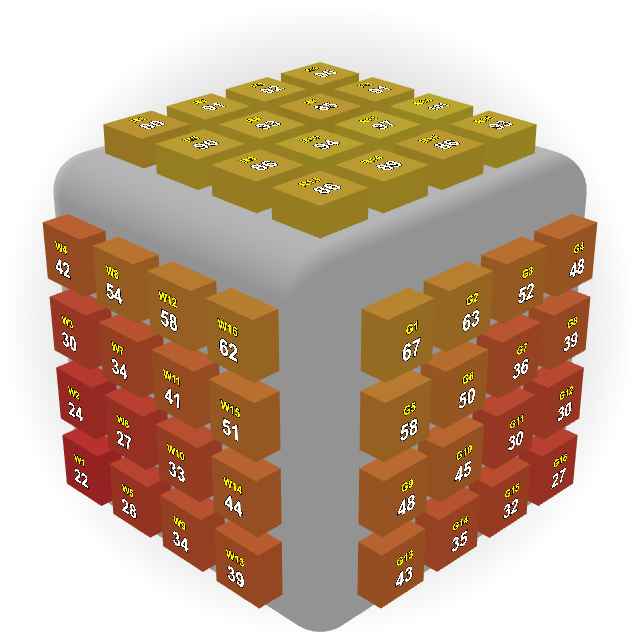
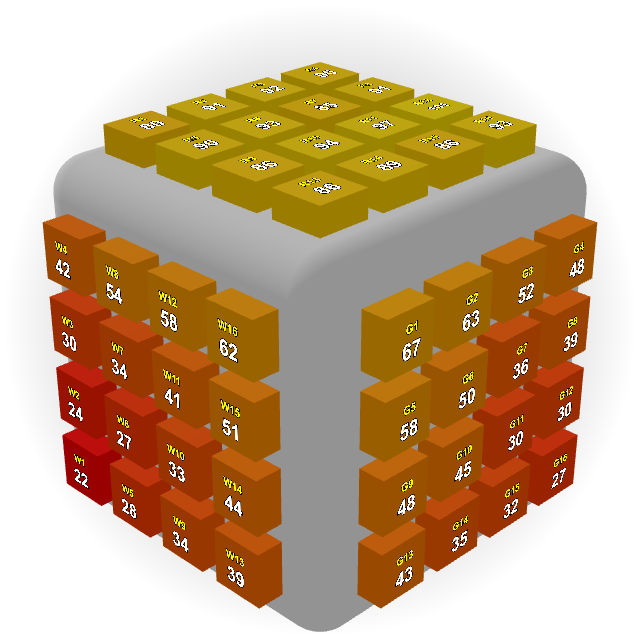
Refactor heatmap UI: integrate participants data from CSV and adjust layout for improved responsiveness

diff --git a/_includes/heatmap.html b/_includes/heatmap.html
@@ -19,39 +19,41 @@
 </style>
 
 <!-- the interface of the 3d render, with 2 home-made select -->
-<div id="interface">
-    <!-- the first select -->
-    <div class="select active" id="hand-select" role="select">
-        <input class="select-checkbox" id="hand-select-checkbox" type="checkbox">
-        <!-- the select content, the checkbox allow the switch for the display of the options -->
-        <label for="hand-select-checkbox" style="display: flex; justify-content:  space-between">
-            <span id="hand-selected">{{ e.total }}</span>
-            <img alt="arrow_down" src="/assets/img/arrow_down.png" style="aspect-ratio: 1 / 1; height: 1.6em;">
-        </label>
-        <!-- the select options -->
-        <div class="select-options" id="hand-select-options">
-            <span class="select-option choose">{{ e.total }}</span>
-            <span class="select-option">{{ e.preferred }}</span>
-            <span class="select-option">{{ e.hf_format | replace: '%h%', e.left | replace: '%f%', e.hand }}</span>
-            <span class="select-option">{{ e.hf_format | replace: '%h%', e.right | replace: '%f%', e.hand }}</span>
+<div class="buffer">
+    <div id="interface">
+        <!-- the first select -->
+        <div class="select active" id="hand-select" role="select">
+            <input class="select-checkbox" id="hand-select-checkbox" type="checkbox">
+            <!-- the select content, the checkbox allow the switch for the display of the options -->
+            <label for="hand-select-checkbox" style="display: flex; justify-content:  space-between">
+                <span id="hand-selected">{{ e.total }}</span>
+                <img alt="arrow_down" src="/assets/img/arrow_down.png" style="aspect-ratio: 1 / 1; height: 1.6em;">
+            </label>
+            <!-- the select options -->
+            <div class="select-options" id="hand-select-options">
+                <span class="select-option choose">{{ e.total }}</span>
+                <span class="select-option">{{ e.preferred }}</span>
+                <span class="select-option">{{ e.hf_format | replace: '%h%', e.left | replace: '%f%', e.hand }}</span>
+                <span class="select-option">{{ e.hf_format | replace: '%h%', e.right | replace: '%f%', e.hand }}</span>
+            </div>
         </div>
-    </div>
-    <!-- the second select -->
-    <div class="select" id="finger-select" role="select">
-        <input class="select-checkbox" id="finger-select-checkbox" type="checkbox">
-        <!-- the select content, the checkbox allow the switch for the display of the options -->
-        <label for="finger-select-checkbox" style="display: flex; justify-content: space-between">
-            <span id="finger-selected">{{ e.all_button }}</span>
-            <img alt="arrow_down" src="/assets/img/arrow_down.png" style="aspect-ratio: 1 / 1; height: 1.6em;">
-        </label>
-        <!-- the select options -->
-        <div class="select-options" id="finger-select-options">
-            <span class="select-option choose">{{ e.all_button }}</span>
-            <span class="select-option">{{ e.thumb }}</span>
-            <span class="select-option">{{ e.index }}</span>
-            <span class="select-option">{{ e.middle }}</span>
-            <span class="select-option">{{ e.ring }}</span>
-            <span class="select-option">{{ e.little }}</span>
+        <!-- the second select -->
+        <div class="select" id="finger-select" role="select">
+            <input class="select-checkbox" id="finger-select-checkbox" type="checkbox">
+            <!-- the select content, the checkbox allow the switch for the display of the options -->
+            <label for="finger-select-checkbox" style="display: flex; justify-content: space-between">
+                <span id="finger-selected">{{ e.all_button }}</span>
+                <img alt="arrow_down" src="/assets/img/arrow_down.png" style="aspect-ratio: 1 / 1; height: 1.6em;">
+            </label>
+            <!-- the select options -->
+            <div class="select-options" id="finger-select-options">
+                <span class="select-option choose">{{ e.all_button }}</span>
+                <span class="select-option">{{ e.thumb }}</span>
+                <span class="select-option">{{ e.index }}</span>
+                <span class="select-option">{{ e.middle }}</span>
+                <span class="select-option">{{ e.ring }}</span>
+                <span class="select-option">{{ e.little }}</span>
+            </div>
         </div>
     </div>
 </div>
@@ -90,11 +92,10 @@
 
 <!-- process the data and handle the interface to display the Keycube -->
 <script type="module">
-    import { Keycube } from '/assets/js/model-viewer.js';
+    import {Keycube} from '/assets/js/model-viewer.js';
+    import langFinger from '/assets/js/ui-lang.json' with {type: 'json'};
 
     const heatmap = new Keycube(document.getElementById('model-container'), true, 'integer')
-
-    import langFinger from '/assets/js/ui-lang.json' with {type: 'json'};
 
     // select element
     const handLabel = document.getElementById('hand-selected');

diff --git a/assets/css/heatmap.css b/assets/css/heatmap.css
@@ -7,7 +7,7 @@
     justify-content: center;
     align-items: center;
     box-sizing: border-box;
-    margin: 4rem auto 0;
+    margin: auto;
     overflow: visible;
     object-fit: cover;
 
@@ -43,6 +43,10 @@
     cursor: grabbing;
 }
 
+.buffer {
+    height: 4rem;
+}
+
 #interface {
     position: absolute;
     left: 50%;
@@ -53,14 +57,6 @@
     gap: 2em;
     user-select: none;
 }
-
-/*#hand-select {
-    width: 13em
-}
-
-#finger-select {
-    width: 7em
-}*/
 
 .select-option:hover, .select-option.choose, #reset-view-btn:hover {
     color: #111;
@@ -160,27 +156,11 @@
 }
 
 #reset-view-btn {
-    /*background: rgba(255, 255, 255, 0.82);
-    backdrop-filter: blur(10px);
-    -webkit-backdrop-filter: blur(10px);
-    border: 1px solid rgba(0, 0, 0, 0.08);
-    border-radius: 10px;
-    box-shadow: 0 2px 12px rgba(0, 0, 0, 0.06);*/
     font-size: 12px;
     font-weight: 600;
-    /*color: #1a1a2e;
-    transition: all 0.3s;*/
     cursor: pointer;
-    /*padding: 7px 14px;*/
     pointer-events: auto;
     user-select: none;
-}
-
-#reset-view-btn:active {
-    /*background: rgba(74, 158, 255, 0.9);
-    color: white;
-    transform: translateY(-2px);
-    border-color: rgba(74, 158, 255, 0.4);*/
 }
 
 /* Responsive */

diff --git a/_includes/dataviz-data.html b/_includes/dataviz-data.html
@@ -1,4 +1,25 @@
 <script>
+    // Données CSV intégrées (généré par Jekyll)
+    let participantsData = [
+        {% for row in site.data.preferences %}
+    {
+        number: {{ row.Number }},
+        handedness: "{{ row.Handedness }}",
+            circumferenceLeft: {{ row.CircumferenceLeftHand }},
+        circumferenceRight: {{ row.CircumferenceRightHand }},
+        lengthLeft: {{ row.LengthLeftHand }},
+        lengthRight: {{ row.LengthRightHand }},
+        spanLeft: {{ row.SpanLeftHand }},
+        spanRight: {{ row.SpanRightHand }},
+        R: [{{ row.R1 }},{{ row.R2 }},{{ row.R3 }},{{ row.R4 }},{{ row.R5 }},{{ row.R6 }},{{ row.R7 }},{{ row.R8 }},{{ row.R9 }},{{ row.R10 }},{{ row.R11 }},{{ row.R12 }},{{ row.R13 }},{{ row.R14 }},{{ row.R15 }},{{ row.R16 }}],
+        B: [{{ row.B1 }},{{ row.B2 }},{{ row.B3 }},{{ row.B4 }},{{ row.B5 }},{{ row.B6 }},{{ row.B7 }},{{ row.B8 }},{{ row.B9 }},{{ row.B10 }},{{ row.B11 }},{{ row.B12 }},{{ row.B13 }},{{ row.B14 }},{{ row.B15 }},{{ row.B16 }}],
+        G: [{{ row.G1 }},{{ row.G2 }},{{ row.G3 }},{{ row.G4 }},{{ row.G5 }},{{ row.G6 }},{{ row.G7 }},{{ row.G8 }},{{ row.G9 }},{{ row.G10 }},{{ row.G11 }},{{ row.G12 }},{{ row.G13 }},{{ row.G14 }},{{ row.G15 }},{{ row.G16 }}],
+        W: [{{ row.W1 }},{{ row.W2 }},{{ row.W3 }},{{ row.W4 }},{{ row.W5 }},{{ row.W6 }},{{ row.W7 }},{{ row.W8 }},{{ row.W9 }},{{ row.W10 }},{{ row.W11 }},{{ row.W12 }},{{ row.W13 }},{{ row.W14 }},{{ row.W15 }},{{ row.W16 }}],
+        Y: [{{ row.Y1 }},{{ row.Y2 }},{{ row.Y3 }},{{ row.Y4 }},{{ row.Y5 }},{{ row.Y6 }},{{ row.Y7 }},{{ row.Y8 }},{{ row.Y9 }},{{ row.Y10 }},{{ row.Y11 }},{{ row.Y12 }},{{ row.Y13 }},{{ row.Y14 }},{{ row.Y15 }},{{ row.Y16 }}]
+    }{% unless forloop.last %},{% endunless %}
+    {% endfor %}
+    ];
+
   // Reachability data (total per key, summed across all fingers per participant)
   {% assign fingers = "LT,LI,LM,LR,LL,RT,RI,RM,RR,RL" | split: "," %}
   {% assign faceNames = "R,B,G,W,Y" | split: "," %}

diff --git a/assets/js/model-viewer.js b/assets/js/model-viewer.js
@@ -73,7 +73,7 @@ export class Keycube {
 
         // Autorotation settings (integrated with OrbitControls)
         this.controls.autoRotate = true;
-        this.controls.autoRotateSpeed = 0.5;  // Slightly slower idle rotation
+        this.controls.autoRotateSpeed = 0.5  // Slightly slower idle rotation
         this.autoRotateStoppedByUser = false;
 
         this.renderer.domElement.addEventListener('touchmove', this.captureViewerGesture, {passive: false});
@@ -478,7 +478,7 @@ export class Keycube {
         if (data.lightingIntensity !== undefined) this.directionalLight.intensity = data.lightingIntensity;
 
         // Heatmap color: invert=true → low=green (preference), invert=false → high=green (reachability)
-        const heatmapColor = (norm, invert) => new THREE.Color().setHSL((invert ? 1 - norm : norm) * 0.33, 0.9, 0.5);
+        const heatmapColor = (norm, invert) => new THREE.Color().setHSL((invert ? 1 - norm : norm) * 0.33, 1, 0.5);
 
         // Apply heatmap to keys
         const applyHeatmap = (heatmapData, min, max, invert, dimOthers) => {